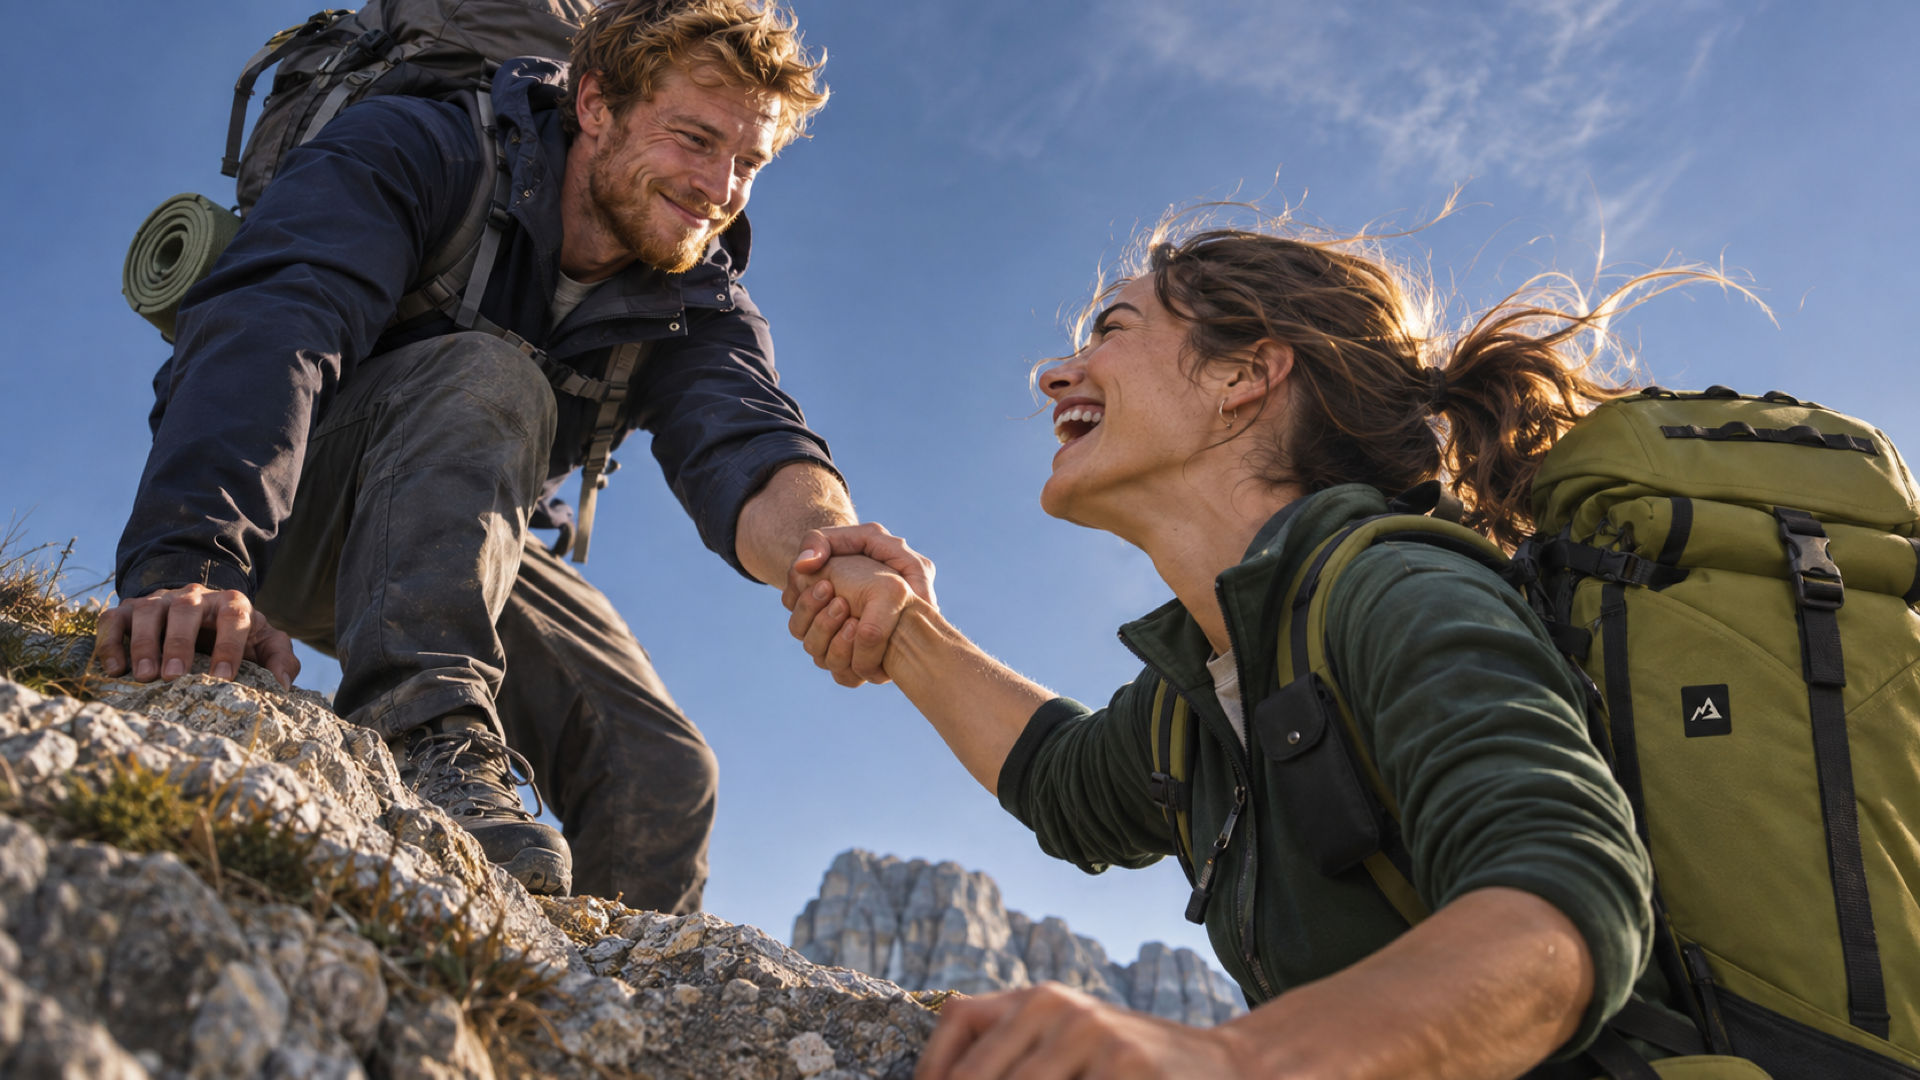
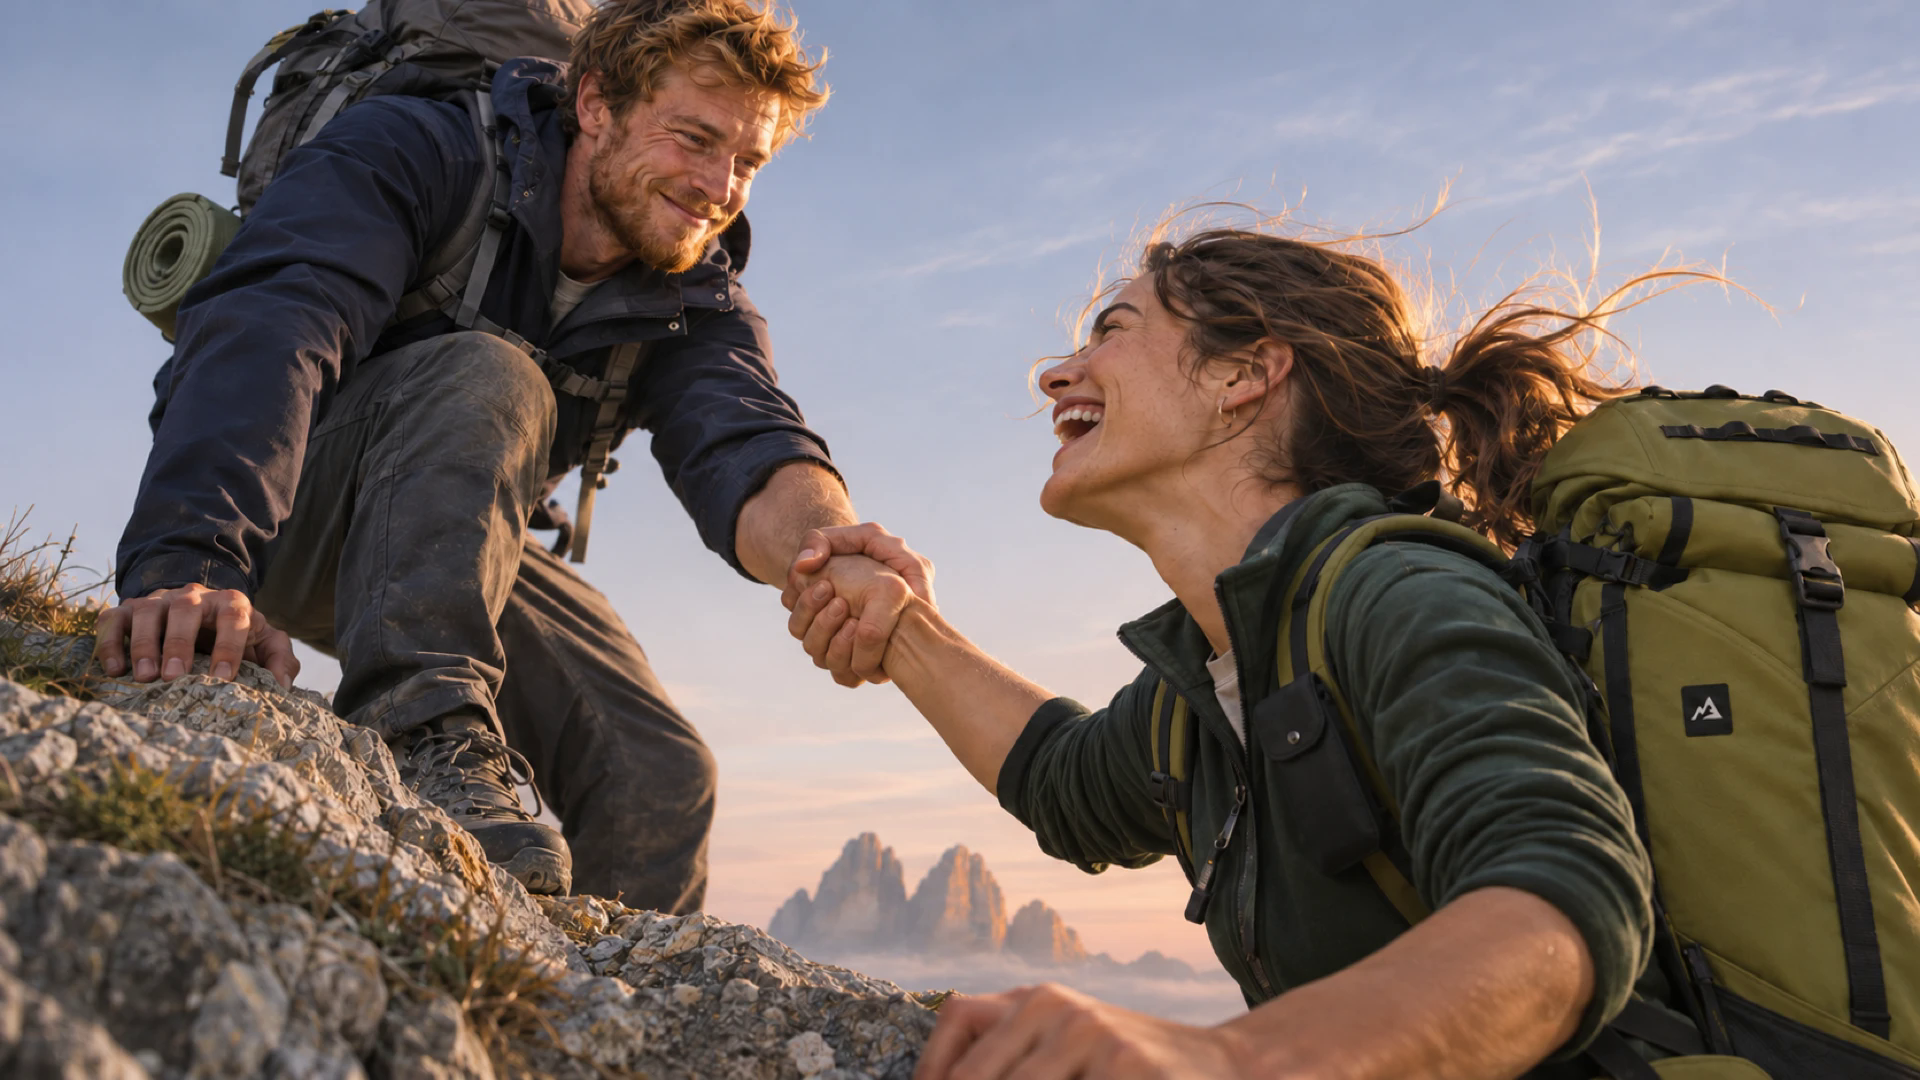
trailer: images refaites img20 (lumière du matin), img37 (Léa tête nue), img43 (pouce en bas de l'écran)
Reçues de Tony en 1920x1080 ; contrôle de réception : les trois sont OK.

Claude-Session: https://claude.ai/code/session_01VCb79VPxRHJGPTESh4fDn3

diff --git a/trailer/qa/RECEPTION.md b/trailer/qa/RECEPTION.md
@@ -1,6 +1,6 @@
 # Réception des images — trailer LKDV
 
-Généré par `node tools/reception/check-footage.mjs` le 2026-11-11 23:16 (heure locale), dossier `assets/footage`. Ce fichier est réécrit à chaque passage ; l'outil ne modifie jamais les images.
+Généré par `node tools/reception/check-footage.mjs` le 2026-11-13 18:03 (heure locale), dossier `assets/footage`. Ce fichier est réécrit à chaque passage ; l'outil ne modifie jamais les images.
 
 - Images du film : **51 reçues / 50 obligatoires** (+ img21, plan de réserve facultatif ; 51 prompts au total).
 - Fiches personnages : **7 / 7**.
@@ -32,7 +32,7 @@ Lecture d'une ligne : « DÉFAUT » bloque la réception ; « alerte » est à v
 - **img41** (P13, P15 · téléphone) — OK [1920×1080, 2,3 Mo, RVB, sans profil (sRGB supposé)] — notes : ×2,00 pour la 4K ; couleurs non évaluées : veste vert forêt (tenue de ville)
 - **img11** (P14) — OK [1920×1080, 2,8 Mo, RVB, sans profil (sRGB supposé)] — notes : ×2,00 pour la 4K
 - **img42** (P16 · téléphone) — DÉFAUT : motif dans l'écran (icône, reflet ou contenu) : 0.46 % de sa surface → « L'écran du téléphone doit être un vert chroma uni pur #00FF00, mat, sans reflet ni icône, avec les quatre coins arrondis nets et visibles, sans lueur verte sur la peau. » [1920×1080, 3,2 Mo, RVB, sans profil (sRGB supposé)] — notes : ×2,00 pour la 4K ; couleurs non évaluées : veste vert forêt (tenue de ville)
-- **img43** (P17 · téléphone) — OK [1920×1080, 2,2 Mo, RVB, sans profil (sRGB supposé)] — notes : ×2,00 pour la 4K ; 2 coins visibles sur 4 (deux suffisent pour img43) ; couleurs non évaluées : veste vert forêt (tenue de ville)
+- **img43** (P17 · téléphone) — OK [1920×1080, 1,3 Mo, RVB, profil « sRGB »] — notes : ×2,00 pour la 4K ; 2 coins visibles sur 4 (deux suffisent pour img43) ; couleurs non évaluées : veste vert forêt (tenue de ville)
 - **img44** (P18) — OK [1920×1080, 2,7 Mo, RVB, sans profil (sRGB supposé)] — notes : ×2,00 pour la 4K ; couleurs non évaluées : veste vert forêt (tenue de ville)
 - **img12** (P19) — OK [1920×1080, 2,9 Mo, RVB, sans profil (sRGB supposé)] — notes : ×2,00 pour la 4K ; couleurs non évaluées : veste vert forêt (tenue de ville)
 - **img13** (P20) — OK [1920×1080, 3,1 Mo, RVB, sans profil (sRGB supposé)] — notes : ×2,00 pour la 4K
@@ -43,7 +43,7 @@ Lecture d'une ligne : « DÉFAUT » bloque la réception ; « alerte » est à v
 - **img18** (P25 · téléphone) — OK [1920×1080, 2,7 Mo, RVB, sans profil (sRGB supposé)] — notes : ×2,00 pour la 4K
 - **img45** (P26) — OK [1920×1080, 3,1 Mo, RVB, sans profil (sRGB supposé)] — notes : ×2,00 pour la 4K
 - **img19** (P27) — OK [1920×1080, 3,0 Mo, RVB, sans profil (sRGB supposé)] — notes : ×2,00 pour la 4K
-- **img20** (P28) — OK [1920×1080, 2,9 Mo, RVB, sans profil (sRGB supposé)] — notes : ×2,00 pour la 4K
+- **img20** (P28) — OK [1920×1080, 2,6 Mo, RVB, profil « sRGB »] — notes : ×2,00 pour la 4K
 - **img46** (P29 · téléphone) — OK [1920×1080, 2,7 Mo, RVB, sans profil (sRGB supposé)] — notes : ×2,00 pour la 4K
 - **img21** (facultative) — OK [1920×1080, 2,3 Mo, RVB, sans profil (sRGB supposé)] — notes : ×2,00 pour la 4K
 - **img22** (P31 · téléphone) — OK [1920×1080, 3,2 Mo, RVB, sans profil (sRGB supposé)] — notes : ×2,00 pour la 4K
@@ -64,7 +64,7 @@ Lecture d'une ligne : « DÉFAUT » bloque la réception ; « alerte » est à v
 - **img35a** (P46) — OK [1920×1080, 2,6 Mo, RVB, sans profil (sRGB supposé)] — notes : ×2,00 pour la 4K ; couleurs non évaluées : veste vert forêt (silhouettes), veste beige sable (silhouettes), veste vert sauge clair (silhouettes), veste bleu encre (silhouettes)
 - **img35b** (P46) — OK [1920×1080, 2,6 Mo, RVB, sans profil (sRGB supposé)] — notes : ×2,00 pour la 4K
 - **img36** (P47) — OK [1920×1080, 2,7 Mo, RVB, sans profil (sRGB supposé)] — notes : ×2,00 pour la 4K ; couleurs non évaluées : veste vert sauge clair (doudoune crème la nuit)
-- **img37** (P48, P49 · téléphone) — OK [1920×1080, 2,5 Mo, RVB, sans profil (sRGB supposé)] — notes : ×2,00 pour la 4K
+- **img37** (P48, P49 · téléphone) — OK [1920×1080, 2,0 Mo, RVB, profil « sRGB »] — notes : ×2,00 pour la 4K
 - **img49** (P50) — OK [1920×1080, 2,5 Mo, RVB, sans profil (sRGB supposé)] — notes : ×2,00 pour la 4K
 - **img38** (P51 · téléphone) — OK [1920×1080, 2,9 Mo, RVB, sans profil (sRGB supposé)] — notes : ×2,00 pour la 4K ; couleurs non évaluées : veste en jean délavée (couleur introuvable dans la fiche F7)
 - **img39** (P53) — OK [1920×1080, 2,8 Mo, RVB, sans profil (sRGB supposé)] — notes : ×2,00 pour la 4K
